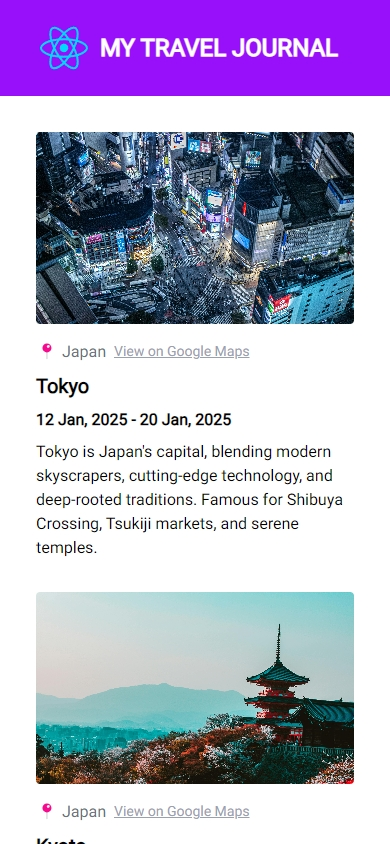
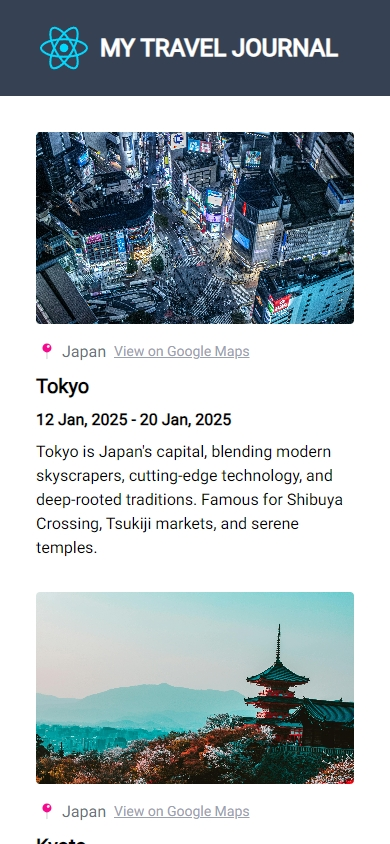
Refactor ChefAI to inline ingredient input logic
Moved ingredient input and management logic from InputIngredients.tsx directly into ChefAI.tsx, removing the now-unnecessary InputIngredients component. Updated related imports and improved code organization. Also added and updated several public image assets and made minor UI tweaks in TravelJournal and AIReponseCard components.

Changed region(s): [[0.0, 0.0, 1.0, 0.1232]]

diff --git a/src/components/chef_ai/ChefAI.tsx b/src/components/chef_ai/ChefAI.tsx
@@ -1,13 +1,114 @@
+import { useState } from "react";
+import RecipeGeneratorCard from "./RecipeGeneratorCard";
+import AIReponseCard from "./AIReponseCard";
 import NavBarComp from "../NavBarComp";
-import InputIngredients from "./InputIngredients";
+
+interface IngredientProps {
+  id: string;
+  value: string;
+}
+
+// A simple SVG icon component for the remove button
+const CrossIcon = () => (
+  <svg
+    xmlns="http://www.w3.org/2000/svg"
+    width="16"
+    height="16"
+    viewBox="0 0 24 24"
+    fill="none"
+    stroke="currentColor"
+    strokeWidth="2"
+    strokeLinecap="round"
+    strokeLinejoin="round"
+    className="text-red-500 hover:text-red-700"
+  >
+    <line x1="18" y1="6" x2="6" y2="18"></line>
+    <line x1="6" y1="6" x2="18" y2="18"></line>
+  </svg>
+);
 
 const ChefAI = () => {
+  const [ingredients, setIngredients] = useState<IngredientProps[]>([]);
+  const [currentIngredient, setCurrentIngredient] = useState("");
+  const [recipeShown, setRecipeShown] = useState(false);
+
+  const handleAddIngredient = (event: React.FormEvent) => {
+    event.preventDefault(); // Prevents the page from reloading on form submission
+    if (currentIngredient.trim() !== "") {
+      const newIngredient: IngredientProps = {
+        id: crypto.randomUUID(),
+        value: currentIngredient.trim(),
+      };
+      setIngredients((prevIngredients) => [...prevIngredients, newIngredient]);
+      setCurrentIngredient(""); // Clear the input field after adding
+    }
+  };
+
+  const handleRemoveIngredient = (idToRemove: string) => {
+    setIngredients((prevIngredients) =>
+      prevIngredients.filter((ingredient) => ingredient.id !== idToRemove)
+    );
+  };
+
+  const ingredientData = ingredients.map((item: IngredientProps) => {
+    return (
+      <div key={item.id} className="flex flex-row items-center justify-between">
+        <li>{item.value}</li>
+        <button
+          onClick={() => handleRemoveIngredient(item.id)}
+          aria-label={`Remove ${item.value}`}
+        >
+          <CrossIcon />
+        </button>
+      </div>
+    );
+  });
+
   return (
     <main className="w-screen h-screen flex flex-col overflow-x-hidden bg-gray-100">
       <NavBarComp
         navBarProps={{ imageSrc: "chef_hat.svg", title: "Chef AI" }}
       />
-      <InputIngredients />
+      <section>
+        <form
+          onSubmit={handleAddIngredient}
+          className="flex flex-col md:flex-row items-center justify-center gap-3 p-5 
+          max-w-xl mx-auto"
+        >
+          <input
+            type="text"
+            placeholder="e.g. pineapple"
+            aria-label="Add Ingredient"
+            value={currentIngredient}
+            onChange={(e) => {
+              setCurrentIngredient(e.target.value);
+            }}
+            className="flex-1 border border-gray-300 px-4 py-2 rounded-lg shadow-sm 
+          focus:outline-none focus:ring-2 focus:ring-black transition"
+          />
+          <button
+            type="submit"
+            className="px-5 py-2 bg-black text-white font-medium rounded-lg 
+          shadow hover:bg-gray-800 transition"
+          >
+            + Add Ingredient
+          </button>
+        </form>
+
+        <div className="max-w-xl mx-auto p-5">
+          <h1 className="text-2xl md:text-3xl font-bold">
+            Ingredients on hand:
+          </h1>
+          <ul className="list-disc list-inside mt-3 space-y-3">
+            {ingredientData}
+          </ul>
+        </div>
+
+        {/* Get recipe button */}
+        {ingredients.length > 3 ? <RecipeGeneratorCard /> : null}
+      </section>
+      {/* AI response */}
+      {recipeShown ? <AIReponseCard /> : null}
     </main>
   );
 };

diff --git a/src/components/TravelJournal.tsx b/src/components/TravelJournal.tsx
@@ -45,7 +45,7 @@ const TravelJournal = () => {
     return (
         <section className='w-screen h-screen flex flex-col overflow-x-hidden'>
             {/* header part */}
-            <nav className='flex items-center justify-center p-5 bg-purple-600'>
+            <nav className='flex items-center justify-center p-5 bg-gray-700'>
                 <img src="react.svg" alt="logo" className="size-12" />
                 <span className="text-2xl md:text-3xl text-white m-3 uppercase">
                     <b>My Travel Journal</b>

diff --git a/src/App.tsx b/src/App.tsx
@@ -1,7 +1,7 @@
-import ChefAI from "./components/chef_ai/ChefAI";
 // import SimpleForm from './components/SimpleForm'
 // import SimpleList from './components/SimpleList'
 // import TravelJournal from './components/TravelJournal'
+import ChefAI from "./components/chef_ai/ChefAI";
 import "./index.css";
 
 function App() {

diff --git a/src/components/chef_ai/AIReponseCard.tsx b/src/components/chef_ai/AIReponseCard.tsx
@@ -1,7 +1,5 @@
-
 const AIReponseCard = () => {
- 
-   return <div>hello</div>;
-}
+  return <section>Hello</section>;
+};
 
-export default AIReponseCard
+export default AIReponseCard;
